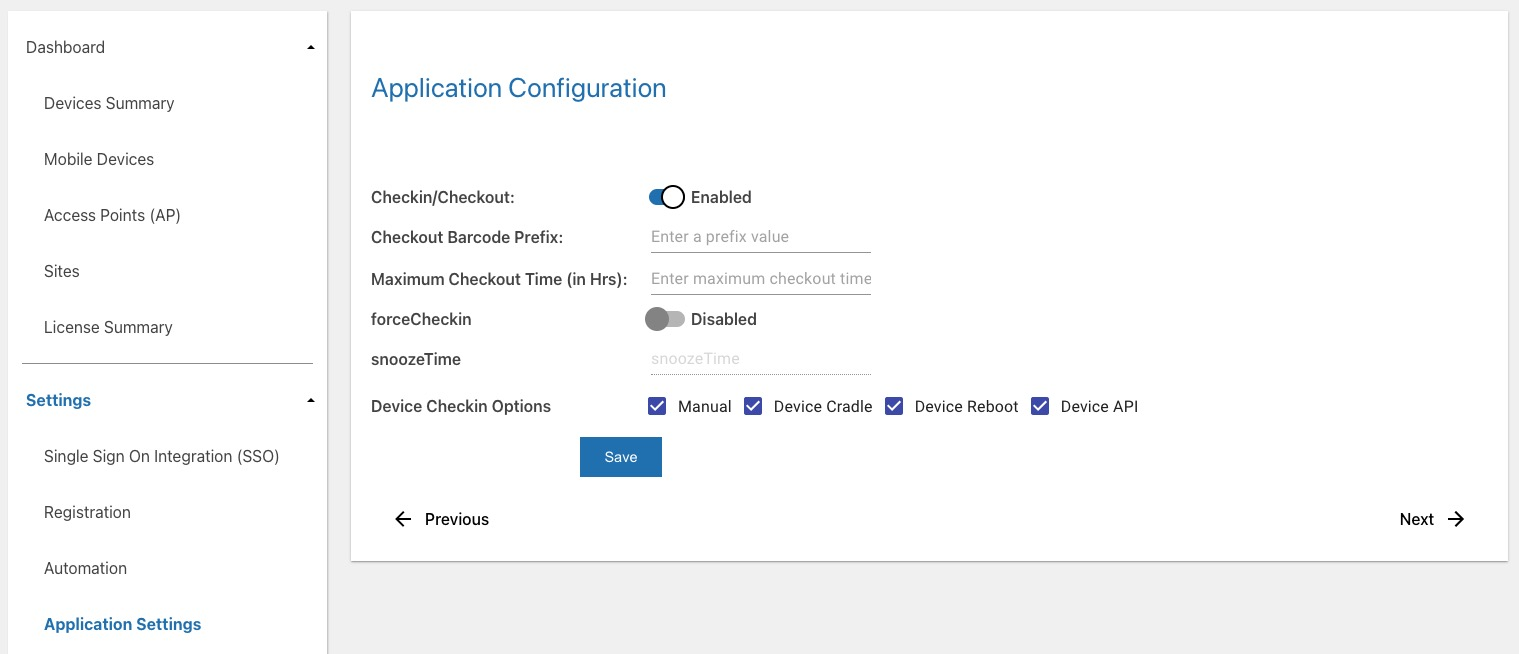
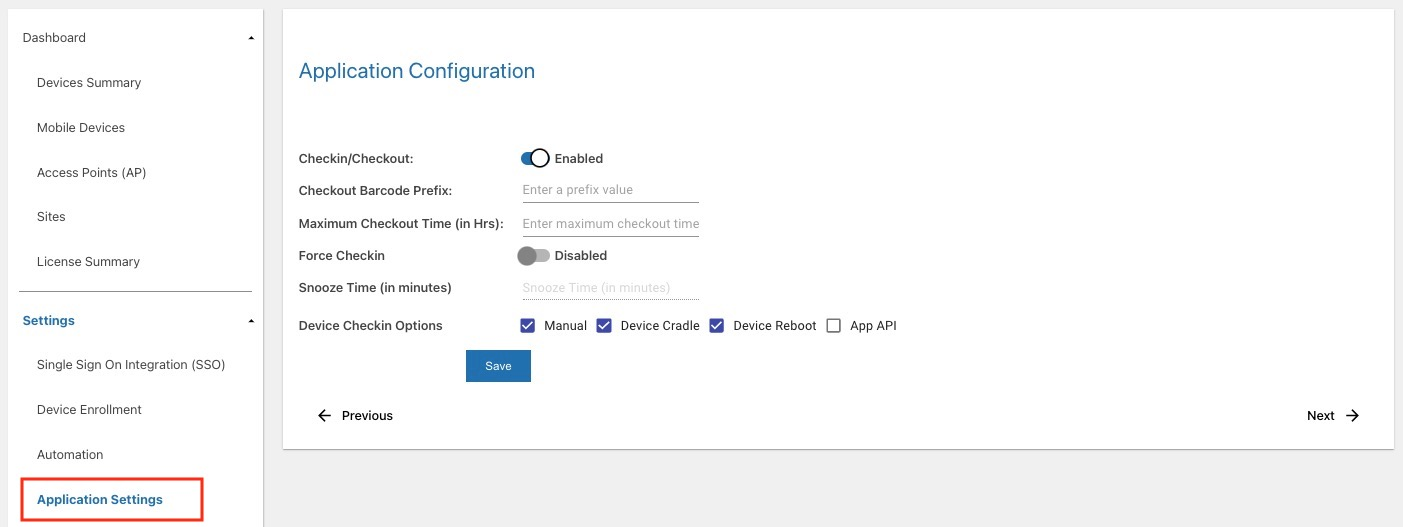
[DLM-27866/DLM-27783] DTRK 5.6 - Rename to App API/Updated Moveinout

diff --git a/devicetracker/5-6/guide/config/index.html b/devicetracker/5-6/guide/config/index.html
@@ -871,7 +871,7 @@ enter the web portal URL provided by Zebra in a <a href="../setup/#webportalrequ
   </tr>
   <tr>
     <td style="text-align:center">snapshotReportCategories</td>
-    <td style="text-align:left">A comma separated list of categories or device states to report for the End of Day Report, for example: <br>To be found,Being Found,Cannot Find,Charging,Discharging,Low battery,Idle,Checked out,Disconnected,Never Connected,Decommissioned,MOVEINOUT</td>
+    <td style="text-align:left">A comma separated list of categories or device states to report for the End of Day Report, for example: <br>To be found,Being Found,Cannot Find,Charging,Discharging,Low battery,Idle,Checked out,Disconnected,Never Connected,Decommissioned,Moveinout</td>
     <td style="text-align:left">Optional</td>
   </tr>
   <tr>
@@ -889,31 +889,13 @@ enter the web portal URL provided by Zebra in a <a href="../setup/#webportalrequ
     <td style="text-align:left">Specifies the end IP address range for the site. This applies if <b>IP Address Range</b> is configured for <b>Device-to-Site Assignment</b> under Settings &gt; Registration in the web portal</td>
     <td style="text-align:left">Optional</td>
   </tr>
-  <!-- 
-  <tr>
-    <td style="text-align:center">BSSID</td>
-    <td style="text-align:left">Access point MAC address</td>
-    <td style="text-align:left">Yes</td>
-  </tr>
-  <tr>
-    <td style="text-align:center">AssetName</td>
-    <td style="text-align:left">Name used by IT admin for drawings, labeling of hardware, etc. <br><i>(For future use only – does not have any impact whether or not it is in use.)<i></td>
-    <td style="text-align:left">Optional</td>
-  </tr>
-  <tr>
-    <td style="text-align:center">LocationFriendlyName</td>
-    <td style="text-align:left">Access point location friendly name, useful to identify general device location. <br />Supported characters are alphanumeric. The following are supported special characters:: <code>&gt;&lt;:_-@#$%&*!+.^()[]=?</code>
-    </td>
-    <td style="text-align:left">Yes</td>
-  </tr>
-  -->
 </tbody></table>
 
 <p>Sample .CSV file content:</p>
 
 <pre class="prettify prettyprint">    <code>
         SiteName,timeZone,scheduledReportTime,EmailSubscribed,emailList,snapshotReportCategories,attachCSV,startIPAddress,endIPAddress
-        New York,America/New_York,30 21 * * *,True,admin@my_company.com,"To be found,Being Found,Cannot Find,Low battery,Disconnected,Never Connected,Decommissioned,MOVEINOUT",TRUE,10.30.1.50,10.30.1.100
+        New York,America/New_York,30 21 * * *,True,admin@my_company.com,"To be found,Being Found,Cannot Find,Low battery,Disconnected,Never Connected,Decommissioned,Moveinout",TRUE,10.30.1.50,10.30.1.100
     </code>
 </pre>
 
@@ -1809,7 +1791,7 @@ c. <strong>IP Address Range Configuration</strong><br>Allow an IP address range 
 
 <li><p><strong>Device Reboot -</strong> the user reboots the device to checkin; required if Checkin/Checkout is enabled</p></li>
 
-<li><p><strong>Device API -</strong> device checkin can be integrated with the Line of Business (LOB) application by calling the Device Tracker checkin API when the user logs out from the LOB app. When the checkin request is received by Device Tracker, it performs the the device checkin and displays the device checkout screen for the next user to checkout the device. Add the following code in the LOB app to checkin the device:</p>
+<li><p><strong>App API -</strong> device checkin can be integrated with the Line of Business (LOB) application by calling the Device Tracker checkin API when the user logs out from the LOB app. When the checkin request is received by Device Tracker, it performs the the device checkin and displays the device checkout screen for the next user to checkout the device. Add the following code in the LOB app to checkin the device:</p>
 
 <pre class="prettyprint"><code>Intent signOutIntent = new Intent();
 signOutIntent.setAction("com.zebra.mdna.devicetrackercloud.SIGNOUT_OF_DEVICE");
@@ -1818,7 +1800,7 @@ sendBroadcast(signOutIntent);
 </code></pre></li>
 </ul>
 
-<p>After device checkin from any of the above methods, the checkout screen appears prompting the user to scan a barcode to gain device access. By default, the first 3 options are selected and Device API is unselected.</p>
+<p>After device checkin from any of the above methods, the checkout screen appears prompting the user to scan a barcode to gain device access. By default, the first 3 options are selected and App API is unselected.</p>
 
 <hr>
 

diff --git a/devicetracker/5-6/guide/about/index.html b/devicetracker/5-6/guide/about/index.html
@@ -327,6 +327,8 @@
 <li><strong>The Mobile Devices <a href="../dashboard/">dashboard</a> now features a new column named “Last Check In,” showing the elapsed time since the device’s most recent check-in.</strong> 
 <img alt="image" style="height:350px" src="last-checkin.jpg"></li>
 
+<li><strong>The <a href="../config/#devicecheckinoptions">Device Checkin Option</a> is renamed from "Device API" to "App API."</strong></li>
+
 <li><strong>Resolved Issues:</strong>
 
 
